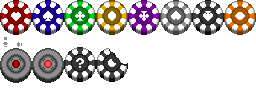
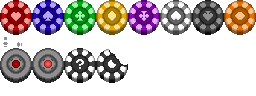
Updated Sprite
- New Chips Design

Changed region(s): [[0.0, 0.0, 0.625, 0.375], [0.25, 0.4688, 0.5, 0.875], [0.75, 0.0, 1.0, 0.375]]

diff --git a/MainScene.cs b/MainScene.cs
@@ -226,7 +226,7 @@ public class MainScene
         Singleton.Instance.CeilingPosition = 0;
         Singleton.Instance.ChipShotAmount = 0;
         Singleton.Instance.Score = 0;
-        Singleton.Instance.Stage = 3;
+        Singleton.Instance.Stage = 1;
 
         Singleton.Instance.CurrentGameState = Singleton.GameState.SetLevel;
 
